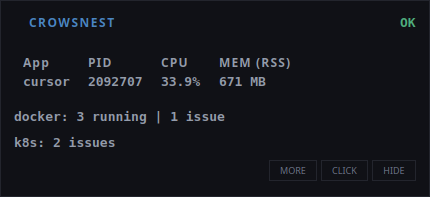
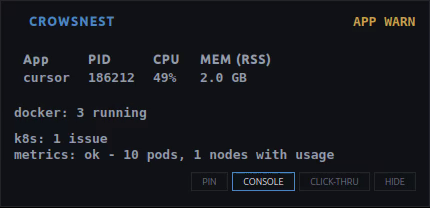
hud: name what the status and the footer actions mean
The strip said "OK" beside "docker: 1 issue" and "k8s: 2 issues", which read
like a contradiction: the chip is the FOCUSED APP's health, not the machine's.
It now says APP OK / APP WARN / APP HIGH CPU, and NO FOCUS when there is no
provider.

The footer's CLICK/CLICK+ pair did not say what it did and MORE/LESS named a
direction rather than the destination. They are now CLICK-THRU / CLICK-THRU ON
and CONSOLE / COLLAPSE; the console button carries the accent border because it
is the one action the strip exists to offer, while the rest are modes. The
initial button text matches the first rendered state (the old CLICK label was
only replaced after the first click).

Tests updated: the status label asserts APP WARN, the footer asserts CONSOLE/
COLLAPSE and CLICK-THRU, and the hover/toggle paths are unchanged. 14/14 ctest,
warning-free. docs/hud.png and the manual's button names follow.

diff --git a/cpp/src/HudWindow.cpp b/cpp/src/HudWindow.cpp
@@ -180,7 +180,7 @@ HudWindow::HudWindow(QWidget *parent)
     footer->setSpacing(4);
     footer->addStretch(1);
 
-    m_moreButton = new QPushButton(QStringLiteral("MORE"), this);
+    m_moreButton = new QPushButton(QStringLiteral("CONSOLE"), this);
     m_moreButton->setObjectName(QStringLiteral("moreButton"));
     m_moreButton->setFocusPolicy(Qt::NoFocus);
     m_moreButton->setCursor(Qt::PointingHandCursor);
@@ -211,7 +211,7 @@ HudWindow::HudWindow(QWidget *parent)
         }
     });
 
-    m_clickButton = new QPushButton(QStringLiteral("CLICK"), this);
+    m_clickButton = new QPushButton(QStringLiteral("CLICK-THRU"), this);
     m_clickButton->setObjectName(QStringLiteral("clickButton"));
     m_clickButton->setFocusPolicy(Qt::NoFocus);
     m_clickButton->setCursor(Qt::PointingHandCursor);
@@ -291,6 +291,10 @@ HudWindow::HudWindow(QWidget *parent)
         "#moreButton:hover, #clickButton:hover, #showHideButton:hover, #pinButton:hover {"
         "  color: %TEXT%; border-color: %MUTED%;"
         "}"
+        // The console is the one action the strip exists to offer; the others
+        // are modes. It carries the accent border, not a fill, so the strip
+        // stays quiet.
+        "#moreButton { color: %TEXT%; border-color: %ACCENT%; }"
         "QLabel   { color: %DIM%; }")
         .replace(QStringLiteral("%ACCENT%"), ui_theme::accent())
         .replace(QStringLiteral("%BG%"), ui_theme::bg())
@@ -549,8 +553,16 @@ void HudWindow::setSnapshot(const DisplaySnapshot &snapshot) {
     if (m_memoryValue->text() != snapshot.memory) {
         m_memoryValue->setText(snapshot.memory);
     }
-    if (m_statusValue->text() != snapshot.status) {
-        m_statusValue->setText(snapshot.status);
+    // The chip is the FOCUSED APP's health, not the machine's: "OK" beside
+    // "docker: 1 issue" read like a contradiction until it said what it was.
+    QString statusText = snapshot.status;
+    if (statusText == QStringLiteral("no-focus")) {
+        statusText = QStringLiteral("NO FOCUS");
+    } else {
+        statusText = QStringLiteral("APP ") + statusText;
+    }
+    if (m_statusValue->text() != statusText) {
+        m_statusValue->setText(statusText);
         m_statusValue->setStyleSheet(
             QStringLiteral("color:%1;").arg(statusColor(snapshot.status)));
     }
@@ -1664,8 +1676,8 @@ void HudWindow::toggleDetails() {
         move(m_savedGeometry.topLeft());
     }
 
-    m_moreButton->setText(m_detailsExpanded ? QStringLiteral("LESS")
-                                            : QStringLiteral("MORE"));
+    m_moreButton->setText(m_detailsExpanded ? QStringLiteral("COLLAPSE")
+                                            : QStringLiteral("CONSOLE"));
     applySurfaceAppearance();
 
     if (m_overlay.clickThrough) {
@@ -1689,7 +1701,7 @@ void HudWindow::toggleCompact() {
                                         : QStringLiteral("HIDE"));
 
     if (m_compact) {
-        m_moreButton->setText(QStringLiteral("MORE"));
+        m_moreButton->setText(QStringLiteral("CONSOLE"));
         m_moreButton->setVisible(false);
     } else {
         m_moreButton->setVisible(true);
@@ -1980,13 +1992,14 @@ void HudWindow::applyClickThrough(bool on) {
     m_overlay.clickThrough = on && applied;
     m_overlay.note = note;
     m_overlay.geometry = QRect(QPoint(x(), y()), size());
-    m_clickButton->setText(m_overlay.clickThrough ? QStringLiteral("CLICK+")
-                                                 : QStringLiteral("CLICK"));
+    m_clickButton->setText(m_overlay.clickThrough
+                               ? QStringLiteral("CLICK-THRU ON")
+                               : QStringLiteral("CLICK-THRU"));
     m_clickButton->setToolTip(overlayClickThroughNote(
         m_overlaySession, m_overlay.clickThroughCapable));
 
     if (m_overlaySession == OverlaySession::X11 && !applied) {
-        m_clickButton->setText(QStringLiteral("CLICK"));
+        m_clickButton->setText(QStringLiteral("CLICK-THRU"));
         m_overlay.clickThrough = false;
     }
 

diff --git a/cpp/tests/test_hud_buttons.cpp b/cpp/tests/test_hud_buttons.cpp
@@ -116,7 +116,7 @@ int main(int argc, char *argv[]) {
         check(pidLabel->text() == QStringLiteral("123"), "snapshot pid rendered");
         check(cpuLabel->text() == QStringLiteral("17%"), "snapshot cpu rendered");
         check(memLabel->text() == QStringLiteral("8 MB"), "snapshot mem rendered");
-        check(statusLabel->text() == QStringLiteral("WARN"),
+        check(statusLabel->text() == QStringLiteral("APP WARN"),
               "snapshot status rendered");
         check(compactLabel != nullptr
                   && compactLabel->text().contains(QStringLiteral("alpha")),
@@ -143,11 +143,11 @@ int main(int argc, char *argv[]) {
     }
 
     if (moreButton) {
-        check(moreButton->text() == QStringLiteral("MORE"),
-              "MORE/LESS starts as MORE");
+        check(moreButton->text() == QStringLiteral("CONSOLE"),
+              "CONSOLE/COLLAPSE starts as CONSOLE");
         moreButton->click();
-        check(moreButton->text() == QStringLiteral("LESS"),
-              "MORE click -> LESS");
+        check(moreButton->text() == QStringLiteral("COLLAPSE"),
+              "CONSOLE click -> COLLAPSE");
         moreButton->click();
     }
 
@@ -2642,7 +2642,8 @@ int main(int argc, char *argv[]) {
         moreButton2->click();
         check(hud.isExpanded() && !panel->isHidden(),
               "MORE expands the overlay in place");
-        check(moreButton2->text() == QStringLiteral("LESS"), "MORE -> LESS");
+        check(moreButton2->text() == QStringLiteral("COLLAPSE"),
+              "CONSOLE -> COLLAPSE");
 
         auto *rail = hud.findChild<QListWidget *>(QStringLiteral("ddRail"));
         if (rail != nullptr) {
@@ -3862,7 +3863,8 @@ int main(int argc, char *argv[]) {
         moreButton2->click();
         check(!hud.isExpanded() && panel->isHidden(),
               "LESS collapses the overlay in place");
-        check(moreButton2->text() == QStringLiteral("MORE"), "LESS -> MORE");
+        check(moreButton2->text() == QStringLiteral("CONSOLE"),
+              "COLLAPSE -> CONSOLE");
     }
 
     // ---- M78 process verbs ----
@@ -3967,8 +3969,8 @@ int main(int argc, char *argv[]) {
         auto *clickButton =
             hud.findChild<QPushButton *>(QStringLiteral("clickButton"));
         check(clickButton != nullptr
-                  && clickButton->text() == QStringLiteral("CLICK"),
-              "overlay: the CLICK control sits in the footer");
+                  && clickButton->text() == QStringLiteral("CLICK-THRU"),
+              "overlay: the CLICK-THRU control sits in the footer");
 
         if (clickButton != nullptr) {
             hud.show();
@@ -3977,7 +3979,7 @@ int main(int argc, char *argv[]) {
             check(!state.clickThrough,
                   "overlay: click-through is refused when no window server "
                   "can honour it");
-            check(clickButton->text() == QStringLiteral("CLICK"),
+            check(clickButton->text() == QStringLiteral("CLICK-THRU"),
                   "overlay: a refused click-through leaves the control off");
             check(!state.note.isEmpty(),
                   "overlay: the refusal states the reason");

diff --git a/docs/manual.md b/docs/manual.md
@@ -321,7 +321,7 @@ matrix.
 ## Use
 
 - **Drag** the panel anywhere (grab it, including the buttons).
-- **`MORE` / `LESS`** — open/close the diagnosis panel.
+- **`CONSOLE` / `COLLAPSE`** — open/close the diagnosis panel.
 - **`HIDE` / `SHOW`** — collapse to a single line or expand.
 - **Click `docker:` or `k8s:`** — expand that badge's details.
 - **`Ctrl+C`** in the terminal — quit.
@@ -884,7 +884,7 @@ your way without getting lost:
 
 ```ini
 [overlay]
-click_through = false   ; every click but the CLICK button goes to the window below
+click_through = false   ; every click but the CLICK-THRU button goes to the window below
 sticky        = true    ; follow you across X11 desktops
 x = 200                 ; last position (restored on launch when a screen still holds it)
 y = 120
@@ -894,7 +894,7 @@ opacity = 100           ; how solid the COLLAPSED strip is, 40..100
 wallpaper = none        ; curated backdrop: none | graphite | slate | moss | ember | dusk
 ```
 
-The footer **CLICK** button toggles click-through on X11 (X Shape `ShapeInput`),
+The footer **CLICK-THRU** button toggles click-through on X11 (X Shape `ShapeInput`),
 and keeps its own rectangle live inside the input region — so the mode is never
 a one-way trip: press it again to make the whole HUD clickable. While the mode
 is on, the HUD cannot be dragged (clicks pass through); drag it with
